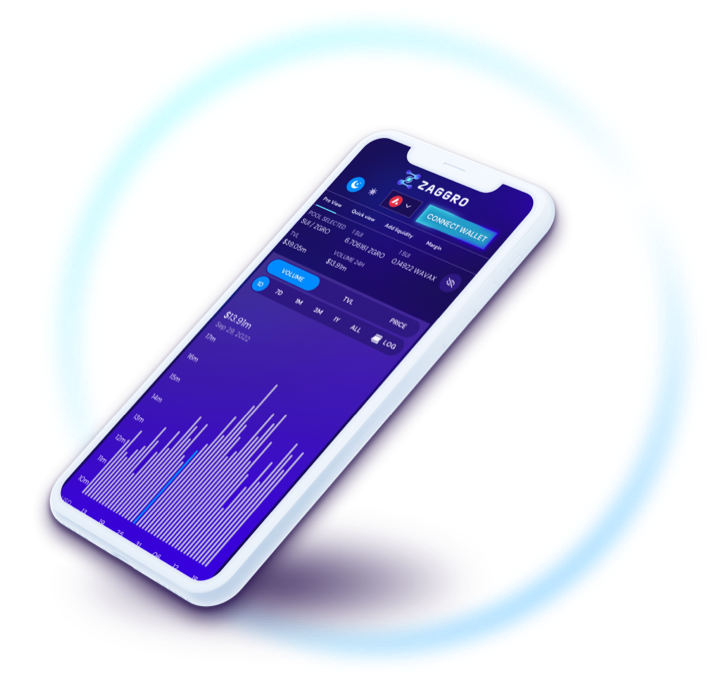
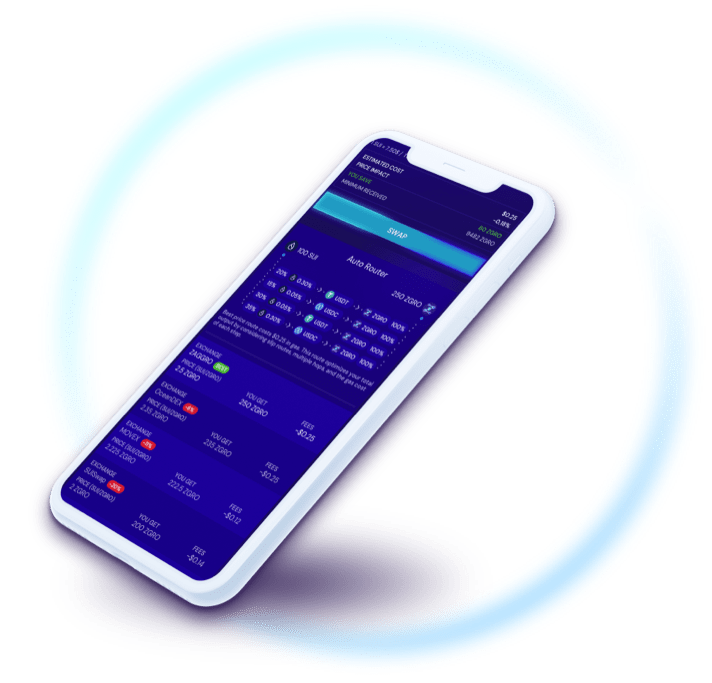
Update mobile preview image

Changed region(s): [[0.0618, 0.1845, 0.7725, 0.8609]]

diff --git a/components/Homepage/MobileApp/MobileApp.tsx b/components/Homepage/MobileApp/MobileApp.tsx
@@ -38,7 +38,7 @@ function MobileApp({ className }: MobileAppProps) {
       <div className={styles.container}>
         <div className={styles.mobileAppPreview}>
           <img
-            src="/images/misc/mobile-app-prev@1.5.png"
+            src="/images/misc/mobile-app-prev@2.png"
             alt="Preview of mobile app"
           />
         </div>
